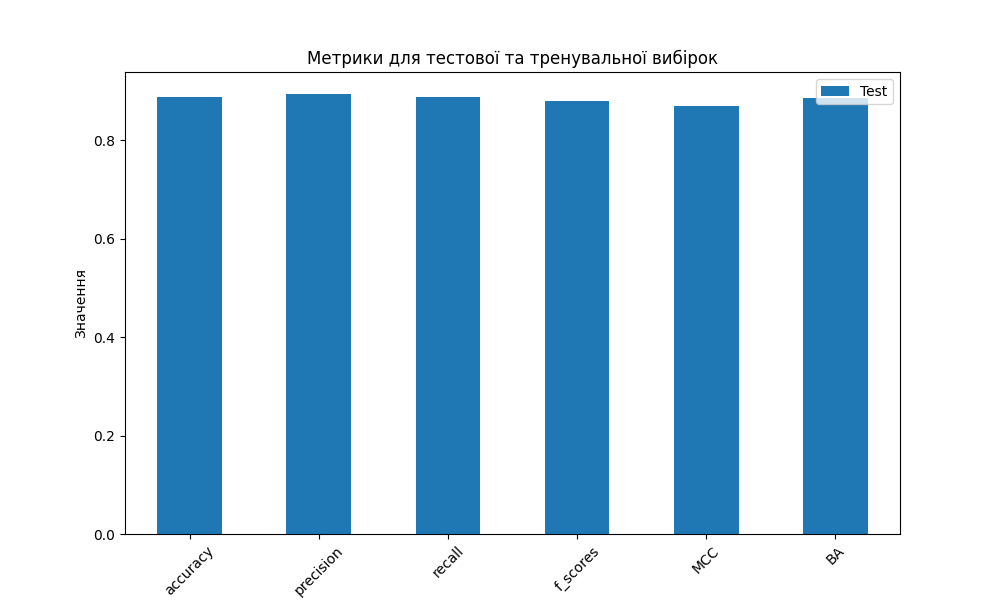
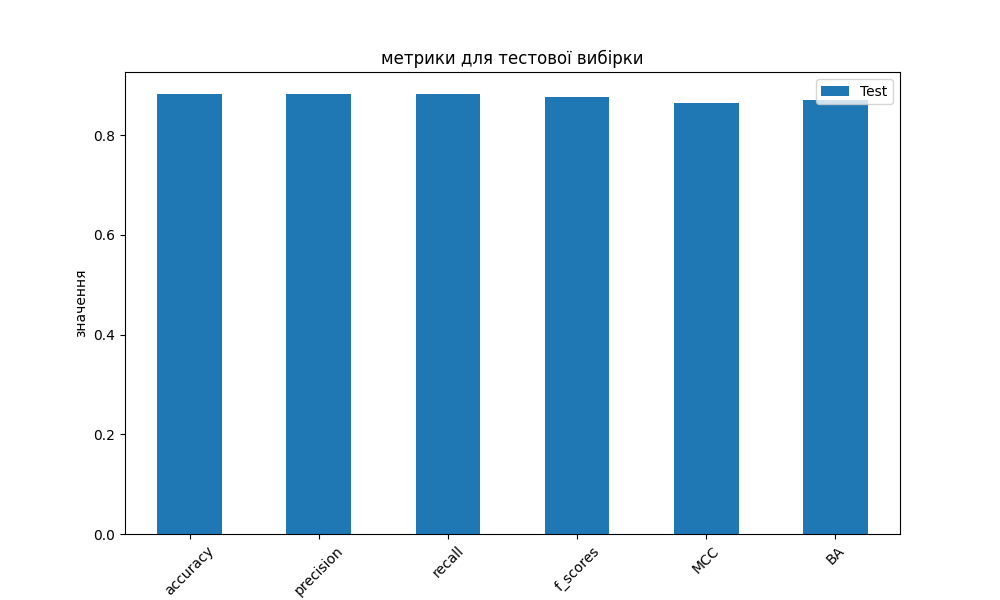
completed a few more tasks + edited code

diff --git a/main.py b/main.py
@@ -21,7 +21,20 @@ n_splits = int(input("введіть к-кість варіантів перем
 if n_splits < 3:
     raise ValueError("!!! к-кість варіантів перемішування >= 3.")
 
-shuffle_split = ShuffleSplit(n_splits=n_splits, test_size=0.2, random_state=42)
+shuffle_split = ShuffleSplit(n_splits=n_splits, test_size=.25, random_state=0)
+print(shuffle_split)
+np.set_printoptions(threshold=9)
+
+option = 2
+
+for i, (train_index, test_index) in enumerate(shuffle_split.split(data), start=1):
+    print(f"Варіант перемішування {i}:")
+    print(f"  Train: {train_index}, length={len(train_index)}")
+    print(f"  Test:  {test_index}, length={len(test_index)}\n")
+
+    if i == option - 1:
+        train, test = train_index, test_index
+
 
 splits = list(shuffle_split.split(data))
 train_indices, test_indices = splits[1]
@@ -41,8 +54,7 @@ print(f"розподіл значень у стовпці '{column_to_check}' у
 print(test_column_counts)
 
 # 5
-k = 3
-k_neighbors_classifier = KNeighborsClassifier(n_neighbors=k)
+k_neighbors_classifier = KNeighborsClassifier()
 
 X_train = train_data.drop(columns=['NObeyesdad'])
 y_train = train_data['NObeyesdad']
